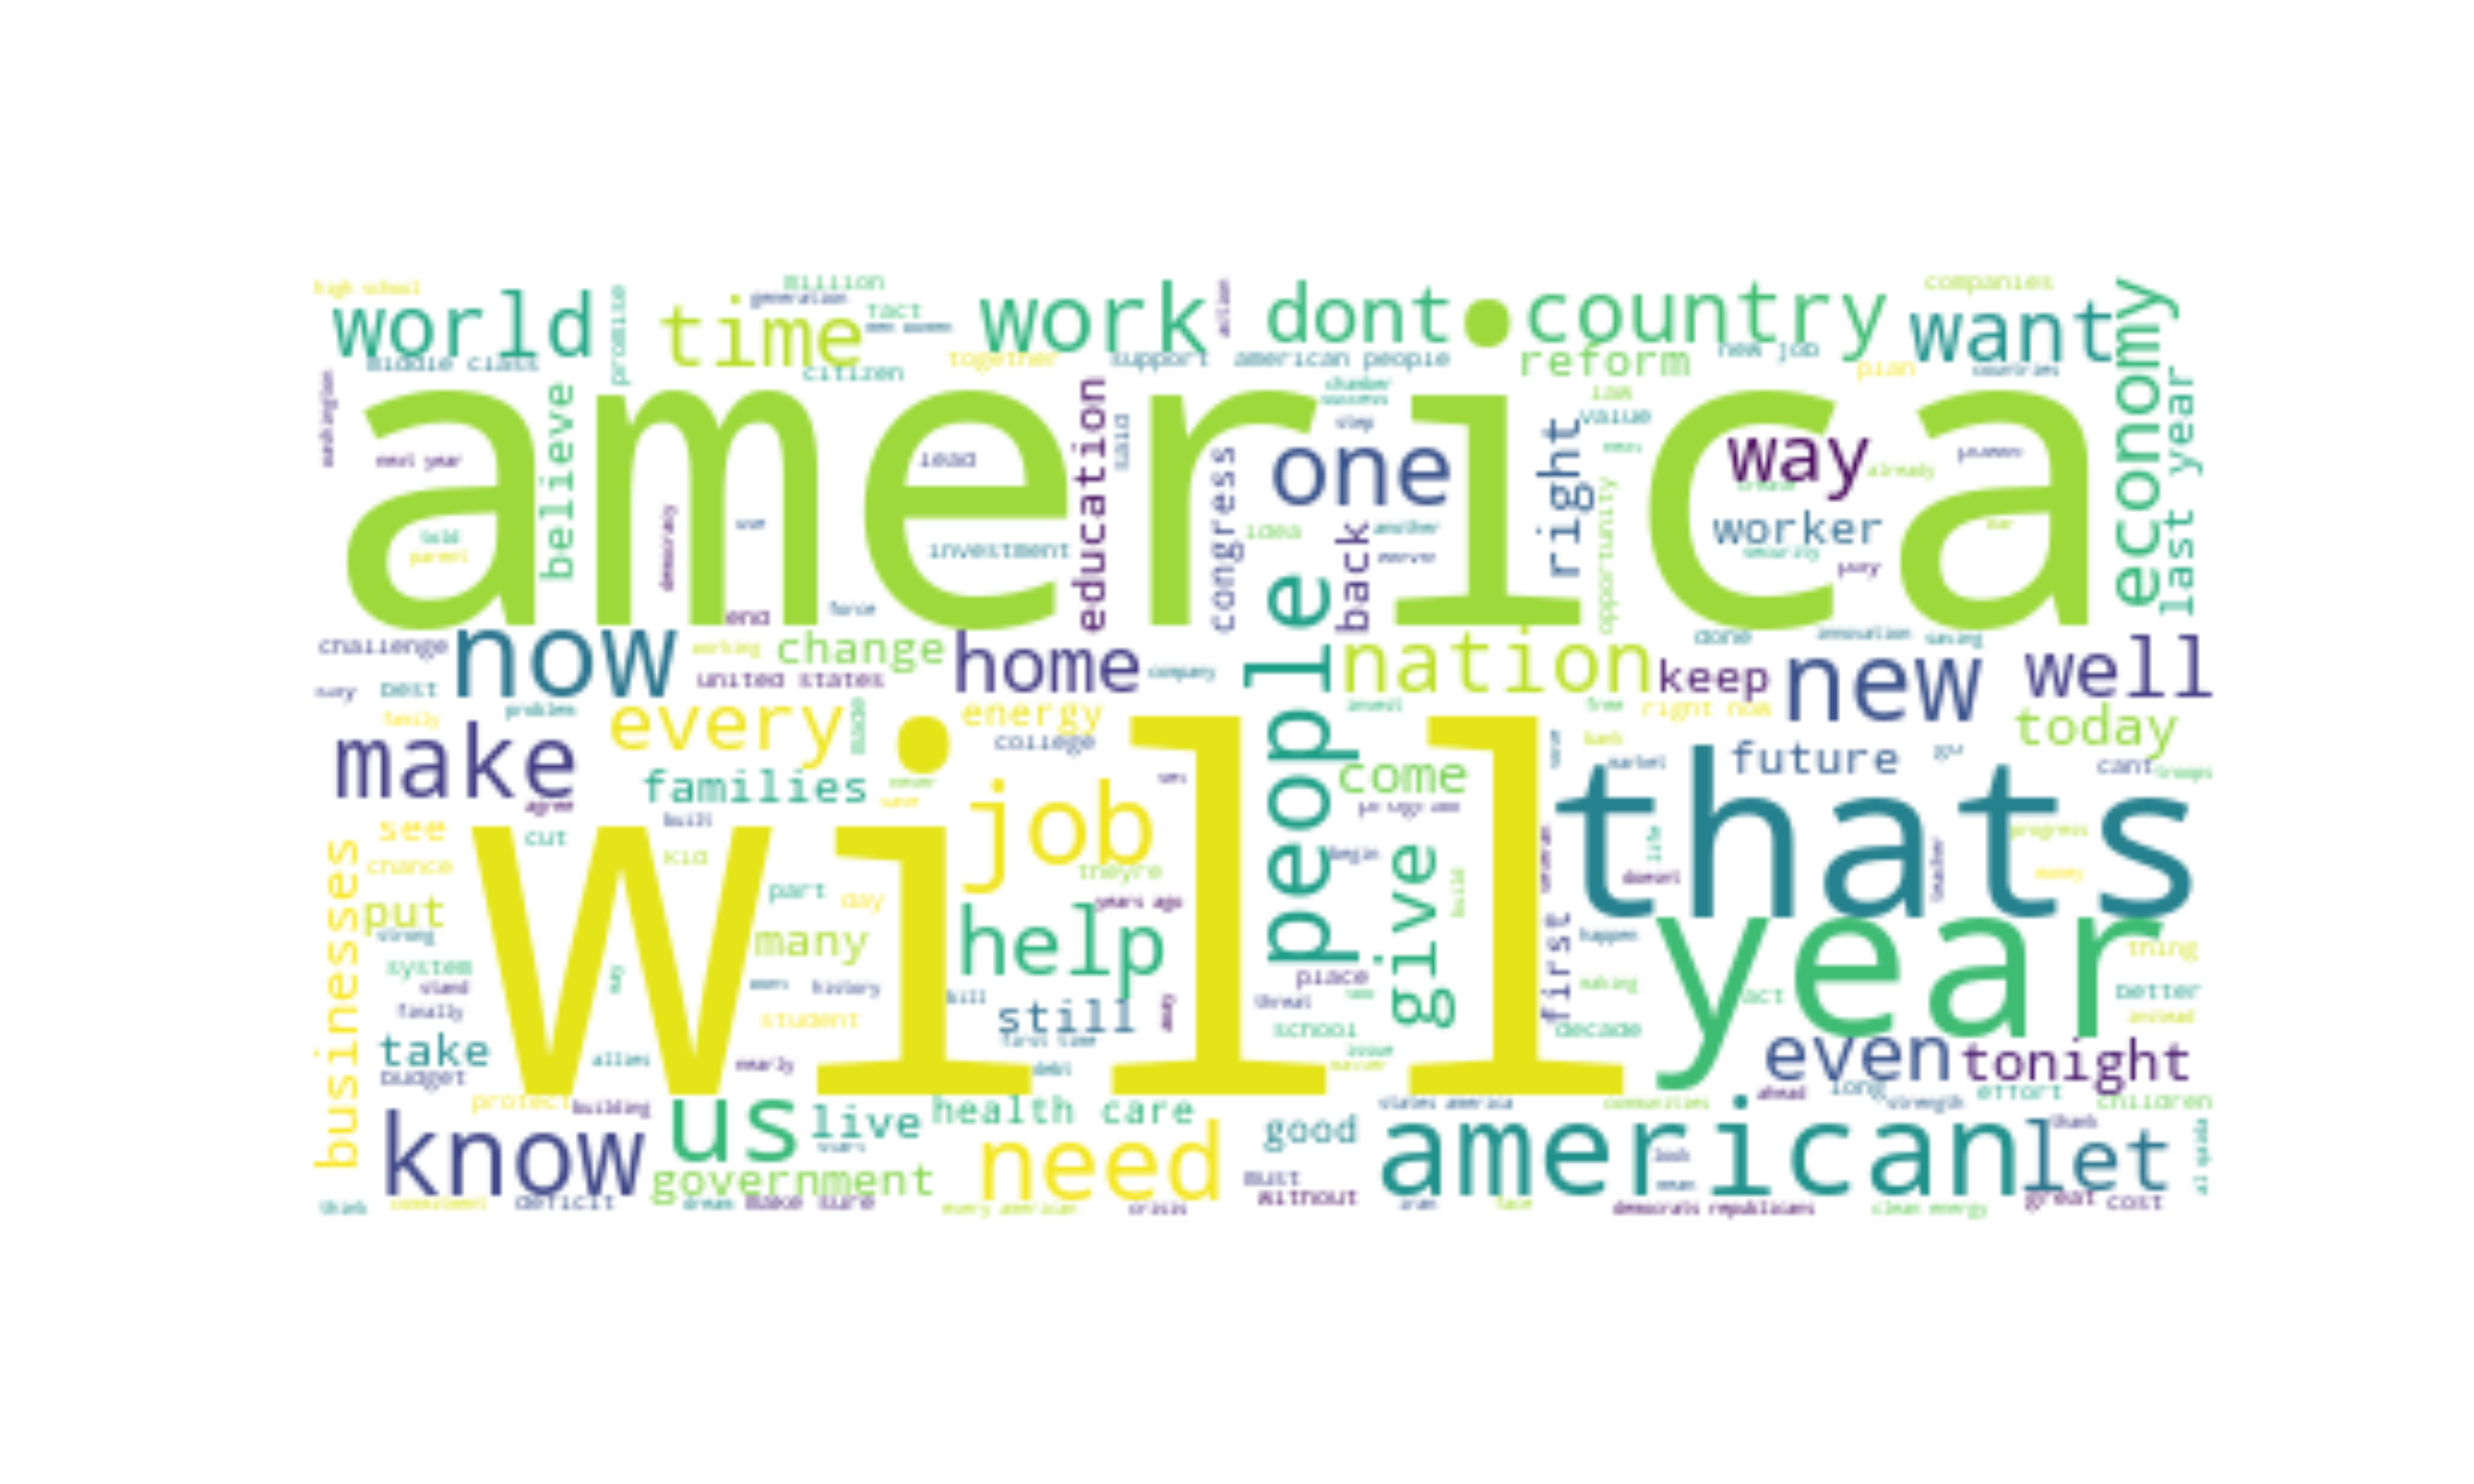
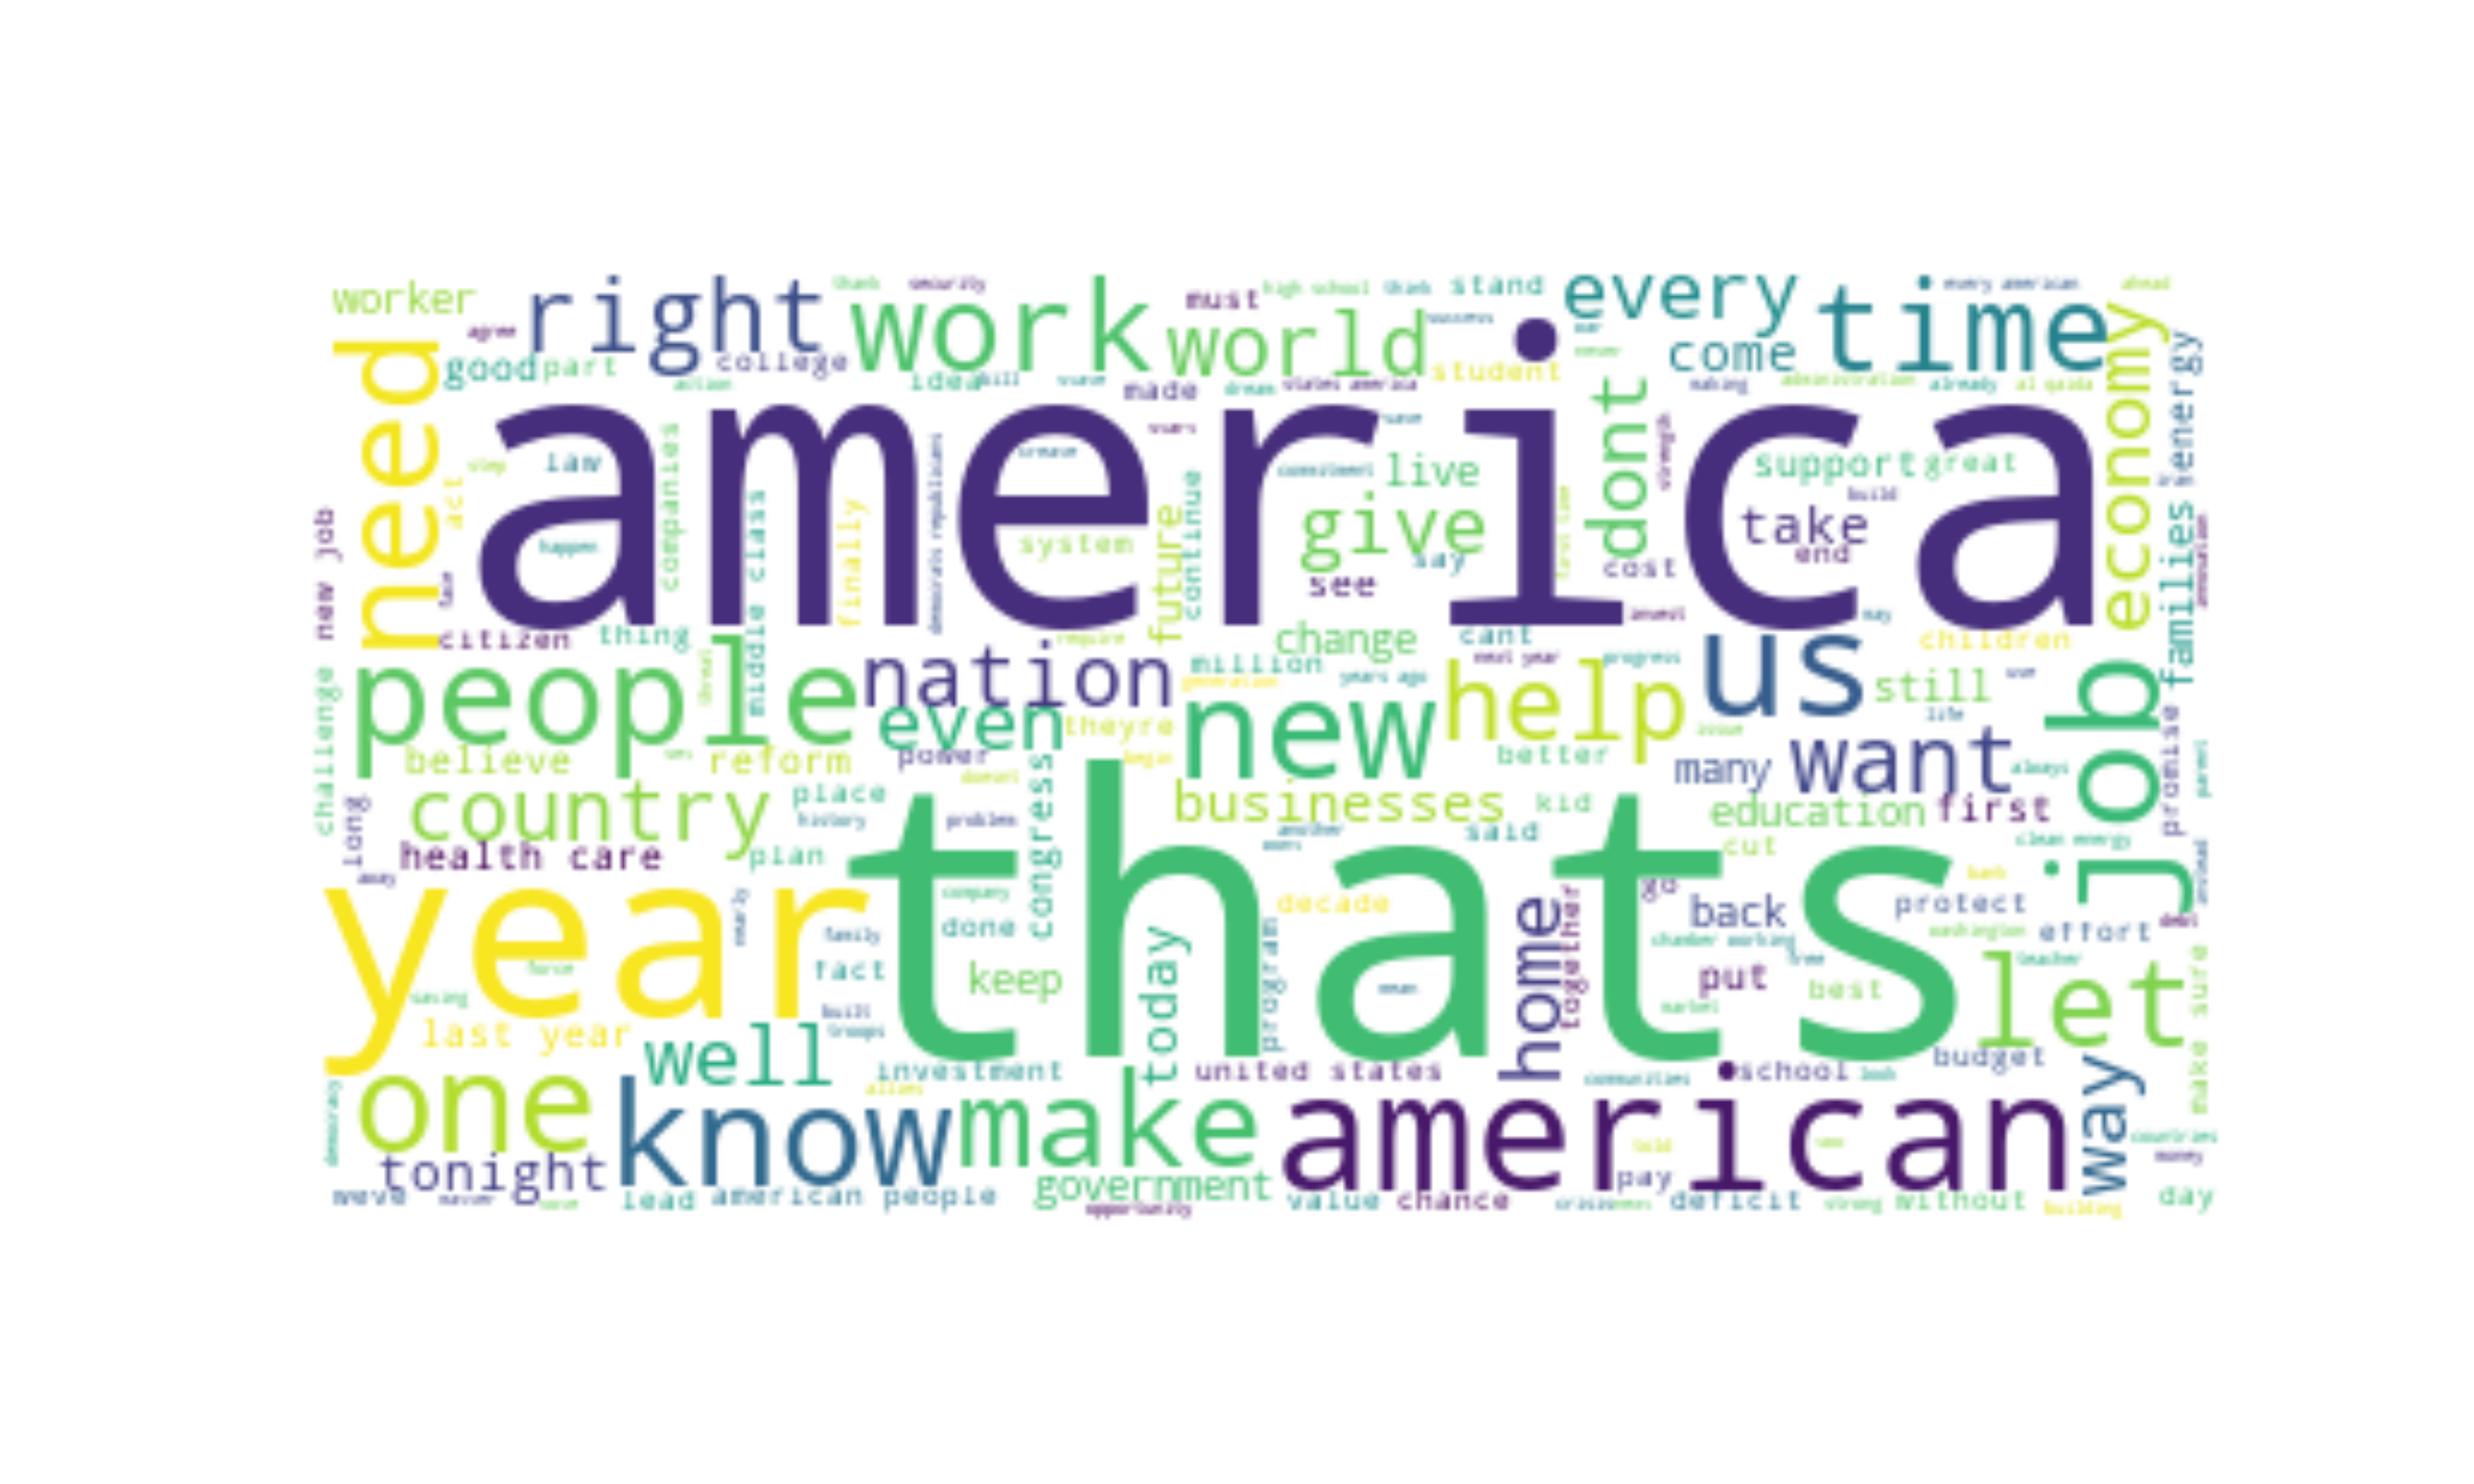
refactor and find vocabulary sizes

diff --git a/__main__.py b/__main__.py
@@ -2,6 +2,8 @@ import numpy as np
 import pandas as pd
 import matplotlib.pyplot as plt
 from wordcloud import WordCloud, STOPWORDS, ImageColorGenerator
+from nltk.corpus import stopwords
+stopwords = set(stopwords.words('english'))
 
 # pd.set_option('display.max_rows', None)
 # pd.set_option('display.max_columns', None)
@@ -51,9 +53,26 @@ def get_word_length_freq(speech_list):
     return value_list
 
 
-def generate_wordcloud(speech_list):
-    text = ' '.join(speech_list)
+def get_avg_vocabulary(speech_list):
+    total_vocabulary = 0
+    for speech in speech_list:
+        curr_vocabulary = set()
+        curr_vocabulary.update(speech.split())
+        total_vocabulary += len(curr_vocabulary)
+    avg_vocabulary = total_vocabulary / len(speech_list)
+    return avg_vocabulary
 
+
+def get_cleaned_speeches(speech_list):
+    cleaned_speech_list = []
+    for speech in speech_list:
+        cleaned_speech = [word for word in speech.split() if word not in stopwords]
+        cleaned_speech = ' '.join(cleaned_speech)
+        cleaned_speech_list.append(cleaned_speech)
+    return cleaned_speech_list
+
+
+def generate_wordcloud(text):
     # Create and generate a word cloud image:
     wordcloud = WordCloud(background_color="white").generate(text)
 
@@ -61,6 +80,15 @@ def generate_wordcloud(speech_list):
     plt.imshow(wordcloud, interpolation='bilinear')
     plt.axis("off")
     plt.show()
+
+
+def print_statistics(speech_list):
+    avg_rally_len = round(get_average_speech_length(speech_list))
+    avg_rally_vocab = round(get_avg_vocabulary(speech_list))
+    avg_rally_word_len = round(find_avg_word_length(speech_list), 2)
+    print("Average speech length: " + "{:,}".format(avg_rally_len) + ' words')
+    print("Average speech vocabulary: " + "{:,}".format(avg_rally_vocab) + ' words')
+    print("Average speech word length: " + str(avg_rally_word_len) + '\n')
 
 
 
@@ -84,60 +112,44 @@ trump_df = pd.read_pickle("trump_speeches_df.pickle")
 trump_rallies = get_speeches_list_from_df(trump_df, 1)
 trump_unions = get_speeches_list_from_df(trump_df, 0)
 # get clean trump speeches, i.e. no stop words
-trump_clean_df = pd.read_pickle("TRUMP_SNIPPETS_DF.pickle")
-trump_clean_rallies = get_speeches_list_from_df(trump_clean_df, 1)
-trump_clean_unions = get_speeches_list_from_df(trump_clean_df, 0)
+trump_clean_rallies = get_cleaned_speeches(trump_rallies)
+trump_clean_unions = get_cleaned_speeches(trump_unions)
 
 # get full obama speeches
 obama_df = pd.read_pickle("obama_speeches_df.pickle")
 obama_rallies = get_speeches_list_from_df(obama_df, 1)
 obama_unions = get_speeches_list_from_df(obama_df, 0)
 # get clean obama speeches, i.e. no stop words
-obama_clean_df = pd.read_pickle("OBAMA_SNIPPETS_DF.pickle")
-obama_clean_rallies = get_speeches_list_from_df(obama_clean_df, 1)
-obama_clean_unions = get_speeches_list_from_df(obama_clean_df, 0)
+obama_clean_rallies = get_cleaned_speeches(obama_rallies)
+obama_clean_unions = get_cleaned_speeches(obama_unions)
 
 print("DONALD TRUMP SPEECH STATISTICS: ")
 print("================================================")
-# find average length of trump speeches
-trump_avg_rally_len = round(get_average_speech_length(trump_rallies))
-trump_avg_union_len = round(get_average_speech_length(trump_unions))
-print("Trump average length of rally speech: " + "{:,}".format(trump_avg_rally_len) + ' words')
-print("Trump average length of SOU speech: " + "{:,}".format(trump_avg_union_len) + ' words\n')
+print("Pure Rallies:")
+print_statistics(trump_rallies)
 
-# find average word length of trump speeches
-trump_avg_rally_word_len = round(find_avg_word_length(trump_rallies), 2)
-trump_avg_union_word_len = round(find_avg_word_length(trump_unions), 2)
-print("Trump average rally word length: " + str(trump_avg_rally_word_len))
-print("Trump average SOU word length: " + str(trump_avg_union_word_len)+'\n')
+print("Cleaned Rallies:")
+print_statistics(trump_clean_rallies)
 
-# find average word length of clean trump speeches
-trump_avg_rally_word_len = round(find_avg_word_length(trump_clean_rallies), 2)
-trump_avg_union_word_len = round(find_avg_word_length(trump_clean_unions), 2)
-print("Removing common stop words...\n")
-print("Trump average rally word length: " + str(trump_avg_rally_word_len))
-print("Trump average SOU word length: " + str(trump_avg_union_word_len)+'\n')
+print("Pure SOU:")
+print_statistics(trump_unions)
+
+print("Cleaned SOU:")
+print_statistics(trump_clean_unions)
 
 print("BARACK OBAMA SPEECH STATISTICS: ")
 print("================================================")
-# find average length of obama speeches
-obama_avg_rally_len = round(get_average_speech_length(obama_rallies))
-obama_avg_union_len = round(get_average_speech_length(obama_unions))
-print("Obama average length of rally speech: " + "{:,}".format(obama_avg_rally_len) + ' words')
-print("Obama average length of SOU speech: " + "{:,}".format(obama_avg_union_len) + ' words\n')
+print("Pure Rallies:")
+print_statistics(obama_rallies)
 
-# find average word length of obama speeches
-obama_avg_rally_word_len = round(find_avg_word_length(obama_rallies), 2)
-obama_avg_union_word_len = round(find_avg_word_length(obama_unions), 2)
-print("Obama average rally word length: " + str(obama_avg_rally_word_len))
-print("Obama average SOU word length: " + str(obama_avg_union_word_len)+'\n')
+print("Cleaned Rallies:")
+print_statistics(obama_clean_rallies)
 
-# find average word length of clean obama speeches
-obama_avg_rally_word_len = round(find_avg_word_length(obama_clean_rallies), 2)
-obama_avg_union_word_len = round(find_avg_word_length(obama_clean_unions), 2)
-print("Removing common stop words...\n")
-print("Obama average rally word length: " + str(obama_avg_rally_word_len))
-print("Obama average SOU word length: " + str(obama_avg_union_word_len)+'\n')
+print("Pure SOU:")
+print_statistics(obama_unions)
+
+print("Cleaned SOU:")
+print_statistics(obama_clean_unions)
 
 # data to plot
 n_groups = 10
@@ -184,7 +196,7 @@ plt.tight_layout()
 plt.show()
 
 # generate wordclouds
-generate_wordcloud(trump_rallies)
-generate_wordcloud(trump_unions)
-generate_wordcloud(obama_rallies)
-generate_wordcloud(obama_unions)
+generate_wordcloud(' '.join(trump_clean_rallies))
+generate_wordcloud(' '.join(trump_clean_unions))
+generate_wordcloud(' '.join(obama_clean_rallies))
+generate_wordcloud(' '.join(obama_clean_unions))
